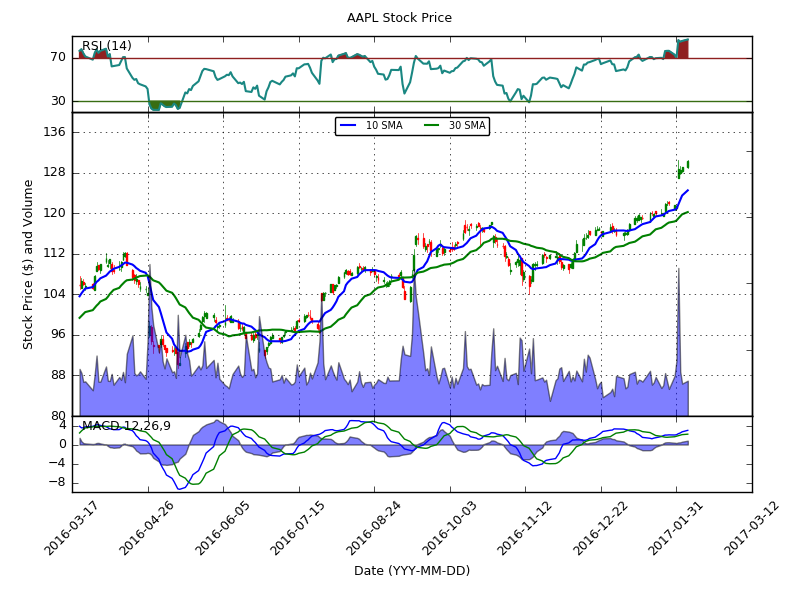
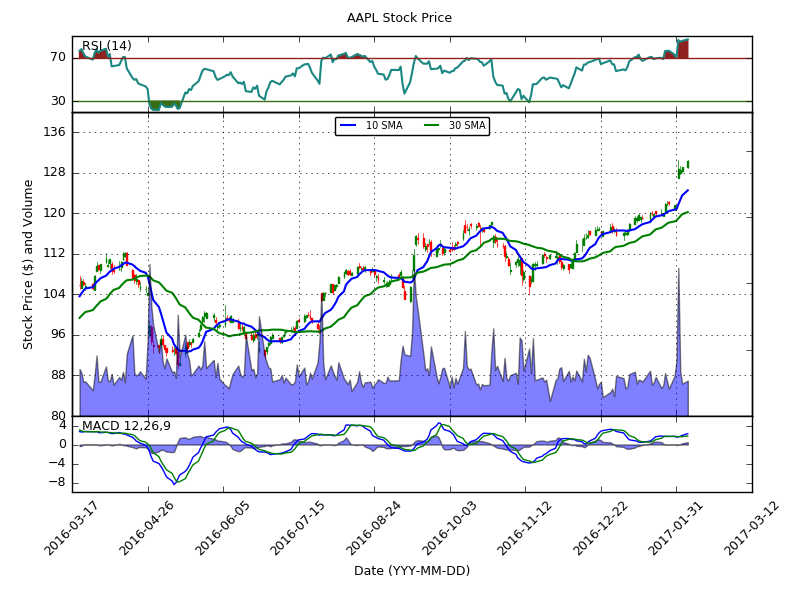
customization for macd

Changed region(s): [[0.0938, 0.69, 0.875, 0.81]]

diff --git a/technical-analysis/oneDayOHLC/sma_ema_vol_ohlc_rsi.py b/technical-analysis/oneDayOHLC/sma_ema_vol_ohlc_rsi.py
@@ -68,9 +68,11 @@ http://www.forexabode.com/forex-school/technical-indicators/macd/
 5-day trading week -> 10,22,7 or 10,22,8
 '''
 def computeMACD(x, slow=26, fast=12):
-	emaslow = ema(x, slow)
-	emafast = ema(x, fast)
-	return emaslow, emafast, emafast-emaslow
+    slow = nslow
+    fast= nfast
+    emaslow = ema(x, slow)
+    emafast= ema(x, fast)
+    return emaslow, emafast, emafast-emaslow
 
 def graphData(stock, MA1, MA2, dateRange):
 	try:
@@ -167,9 +169,9 @@ def graphData(stock, MA1, MA2, dateRange):
 		d = mplot.subplot2grid((6,4), (5,0), sharex=a, rowspan=1, colspan=4)
 		d.tick_params(axis='x')
 		d.tick_params(axis='y')
-		nslow = 26
-		nfast = 12
-		nema = 9
+		# nslow = 26
+		# nfast = 12
+		# nema = 9
 
 		emaslow, emafast, macd = computeMACD(closePrice)
 		ema9 = ema(macd, nema)
@@ -177,7 +179,7 @@ def graphData(stock, MA1, MA2, dateRange):
 		d.plot(date[-SP:], macd[-SP:])
 		d.plot(date[-SP:], ema9[-SP:])
 		d.fill_between(date[-SP:], macd[-SP:]-ema9[-SP:], 0, alpha=0.5)
-		d.text(0.015, 0.95, 'MACD 12,26,9', va='top', transform=d.transAxes)
+		d.text(0.015, 0.95, 'MACD ' + str(nfast) + ' ' + str(nslow) + ' ' + str(nema), va='top', transform=d.transAxes)
 		d.yaxis.set_major_locator(mticker.MaxNLocator(nbins=5, prune='upper'))
 
 		# rotating angles by 90 degrees to fit properly
@@ -214,5 +216,7 @@ dateRange = raw_input('Length of Process: ') or "1y"
 nslow = raw_input('Slow EMA: ') or "26"
 nfast = raw_input('Fast EMA: ') or "12"
 nema = raw_input('EMA Signal: ') or "9"
-
+nslow = int(nslow)
+nfast = int(nfast)
+nema = int(nema)
 graphData(stockToUse, int(sma1), int(sma2), dateRange)
